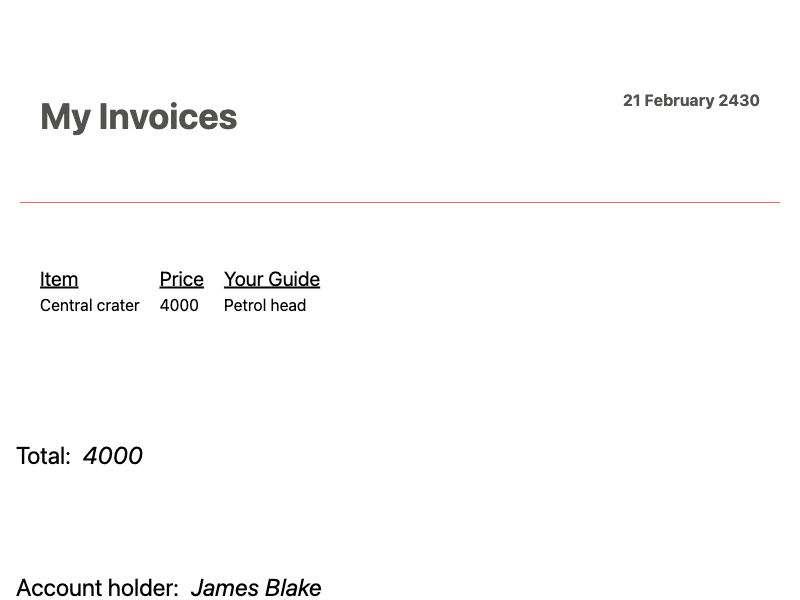
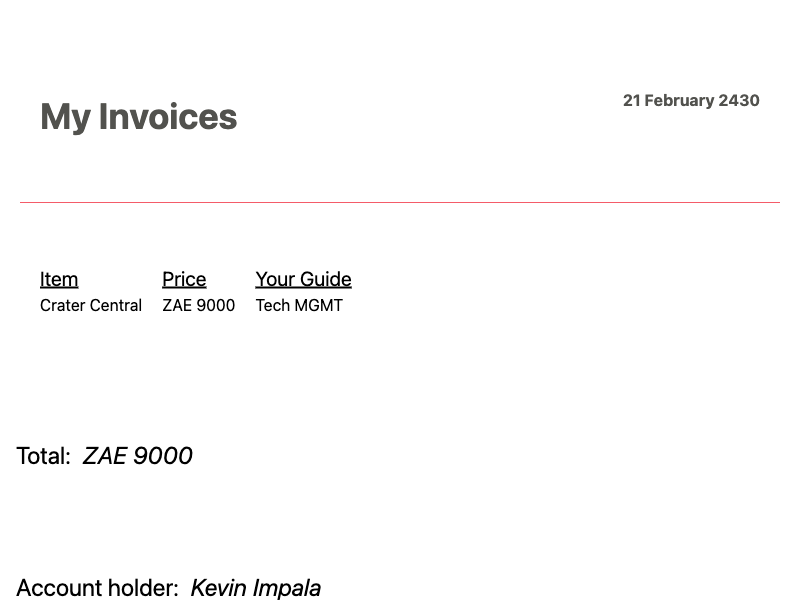
added readme

Changed region(s): [[0.0625, 0.45, 0.4375, 0.54], [0.2188, 0.96, 0.4062, 1.0], [0.0938, 0.72, 0.25, 0.78]]

diff --git a/backend/packages/functions/src/libs/s3Lib.ts b/backend/packages/functions/src/libs/s3Lib.ts
@@ -5,10 +5,10 @@ export const putS3Object = async <T>(args: IS3PutTypes): Promise<String> => {
   const client = new S3Client({
     region: 'ap-south-1',
     // endpoint: 'http://invoice-bucket.s3.ap-south-1.amazonaws.com',
-    credentials: {
-      secretAccessKey: process.env.SECRET_ACCESS_KEY,
-      accessKeyId: process.env.ACCESS_KEY,
-    },
+    // credentials: {
+    //   secretAccessKey: process.env.SECRET_ACCESS_KEY,
+    //   accessKeyId: process.env.ACCESS_KEY,
+    // },
   });
   const params = {
     Bucket: args.Bucket,

diff --git a/backend/README.md b/backend/README.md
@@ -1,51 +1,10 @@
-# How to create an Apollo GraphQL API
+# Talk Backend API
 
-An example serverless app created with SST.
+GraphQL mutation
 
-## Getting Started
-
-[**Read the tutorial**](https://sst.dev/examples/how-to-create-an-apollo-graphql-api-with-serverless.html)
-
-Install the example.
-
-```bash
-$ npx create-sst@latest --template=examples/graphql-apollo
-# Or with Yarn
-$ yarn create sst --template=examples/graphql-apollo
 ```
+mutation {
+  generateInvoice(input:{name:"Kevin Impala",guide:"Tech MGMT",price:"ZAE 9000",tripName:"Crater Central"})
+}
 
-## Commands
-
-### `npm run start`
-
-Starts the local Lambda development environment.
-
-### `npm run build`
-
-Build your app and synthesize your stacks.
-
-Generates a `.build/` directory with the compiled files and a `.build/cdk.out/` directory with the synthesized CloudFormation stacks.
-
-### `npm run deploy [stack]`
-
-Deploy all your stacks to AWS. Or optionally deploy a specific stack.
-
-### `npm run remove [stack]`
-
-Remove all your stacks and all of their resources from AWS. Or optionally remove a specific stack.
-
-### `npm run test`
-
-Runs your tests using Jest. Takes all the [Jest CLI options](https://jestjs.io/docs/en/cli).
-
-## Documentation
-
-Learn more about SST.
-
-- [Docs](https://docs.sst.dev)
-- [@serverless-stack/cli](https://docs.sst.dev/packages/cli)
-- [@serverless-stack/resources](https://docs.sst.dev/packages/resources)
-
-## Community
-
-[Follow us on Twitter](https://twitter.com/sst_dev) or [post on our forums](https://discourse.sst.dev).
+```
